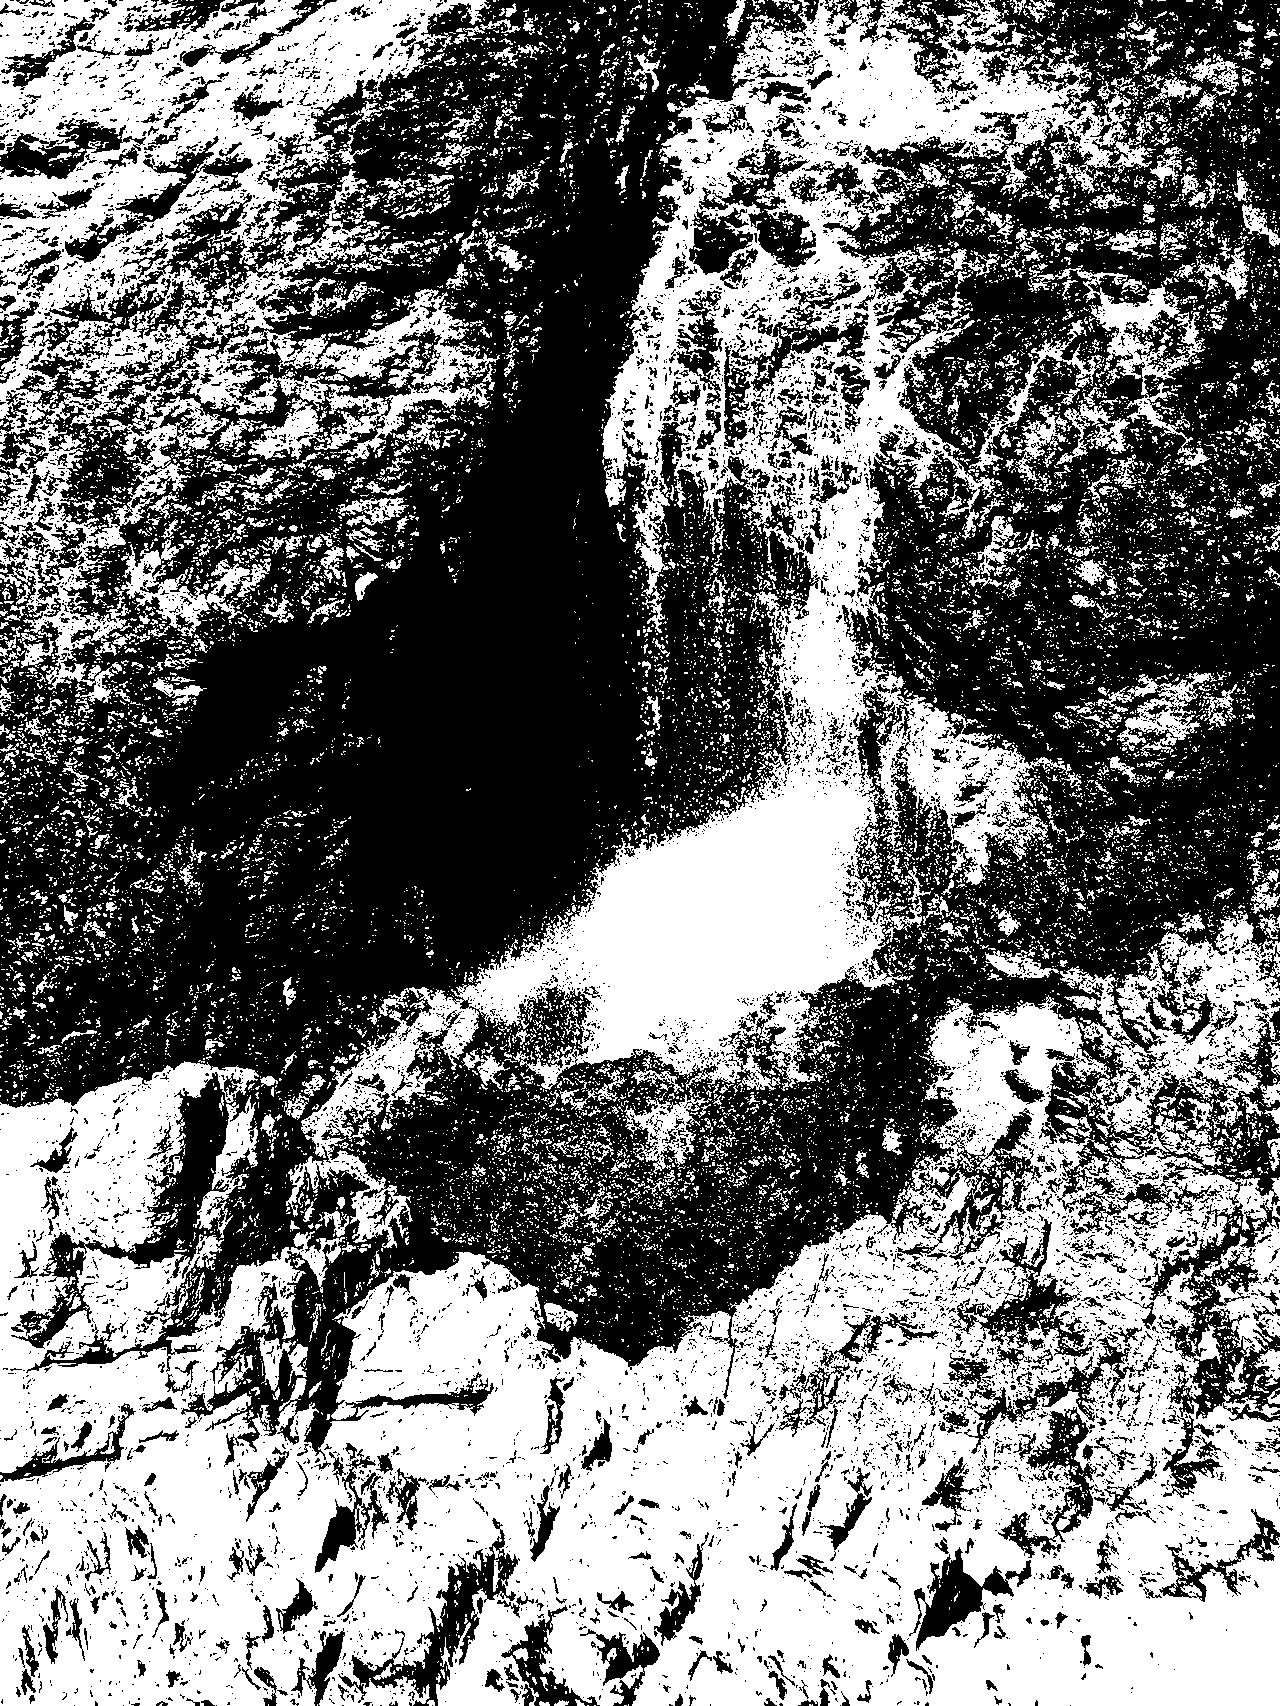
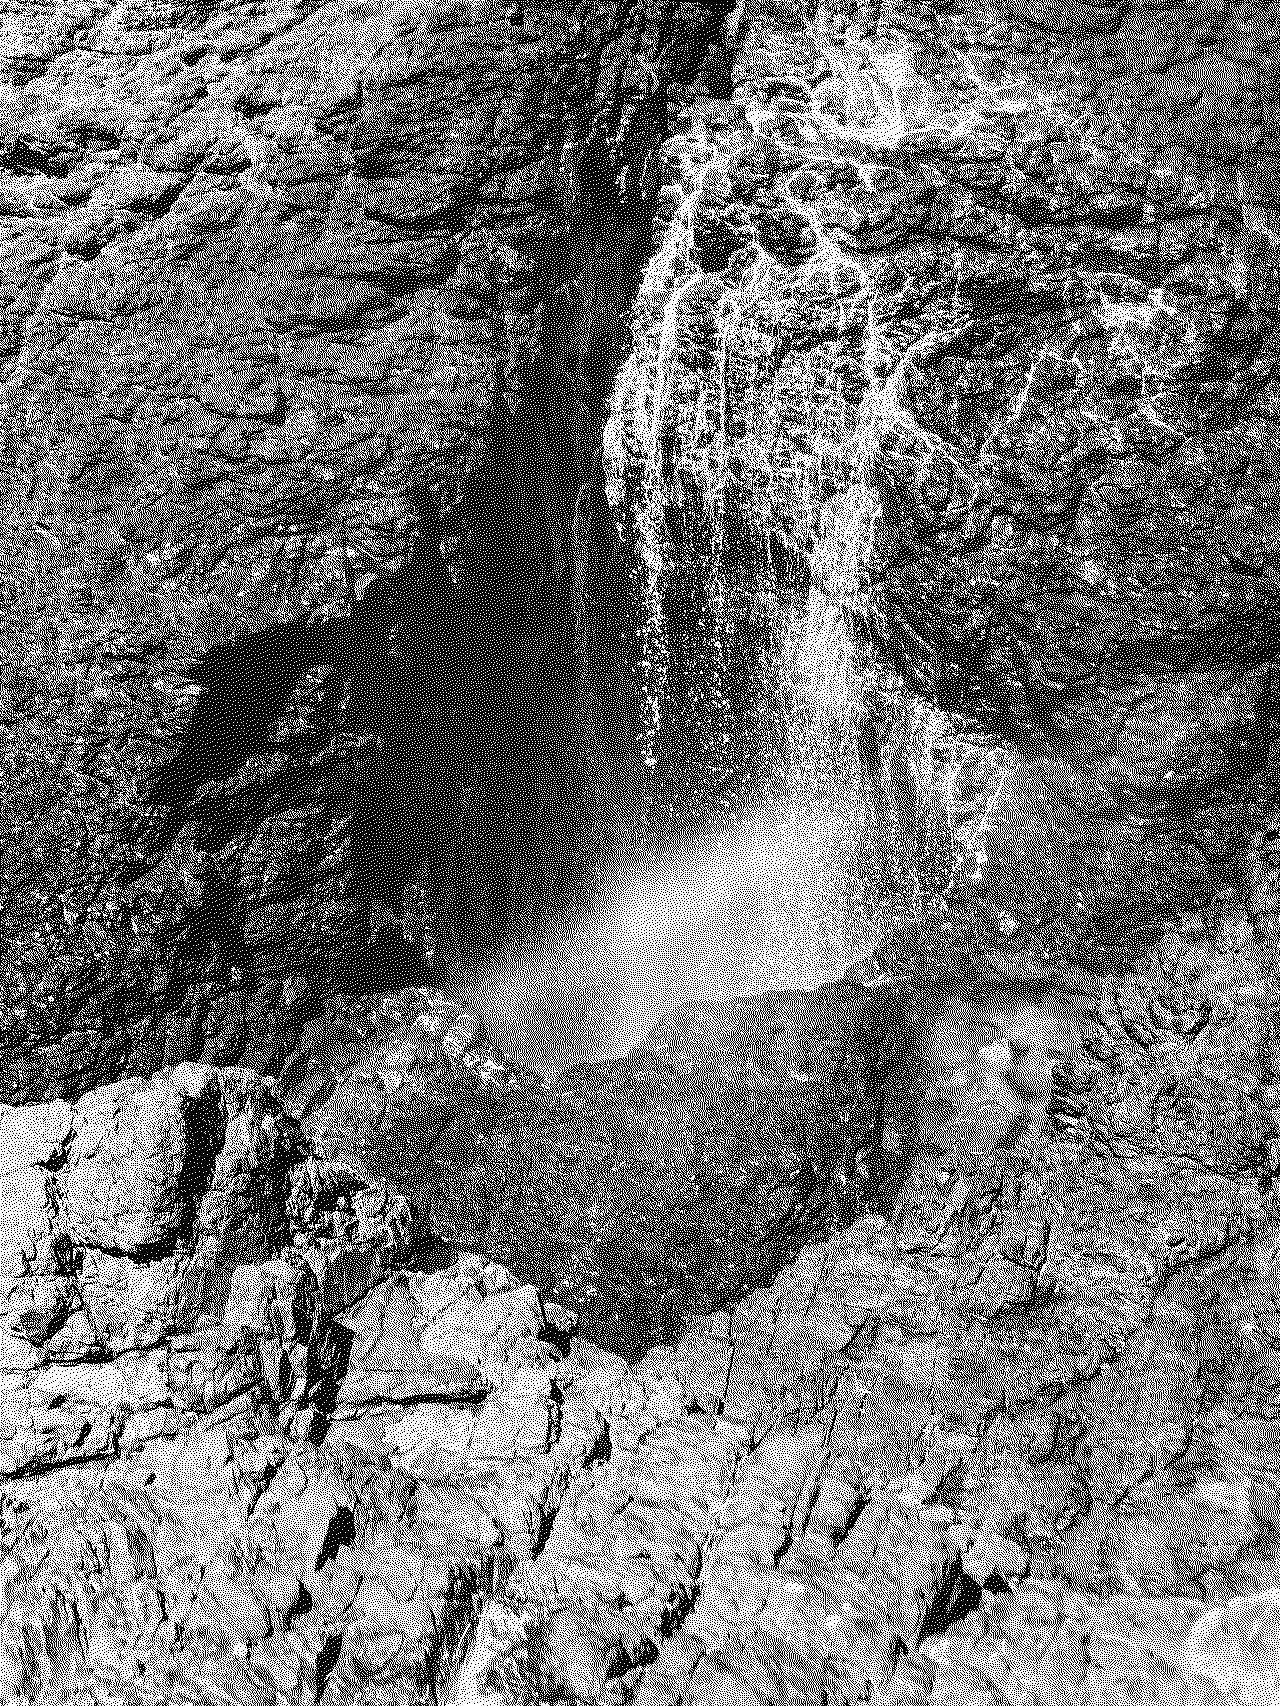
dithering

Changed region(s): [[0.0, 0.0, 1.0, 1.0]]

diff --git a/Assignment7/src/ImageModification.java b/Assignment7/src/ImageModification.java
@@ -76,7 +76,7 @@ public class ImageModification extends AbstractImageHandling {
 
               if (pixelUsedX >= 0 && pixelUsedY >= 0 && pixelUsedX < width
                       && pixelUsedY < height) {
-                int[] rgbProduct = getRGBForPixel(pixelUsedX, pixelUsedY);
+                int[] rgbProduct = getRGBForPixel(image, pixelUsedX, pixelUsedY);
                 filterSum[k] += rgbProduct[k] * filter[l + filterHalfLen][m + filterHalfLen];
               }
             }
@@ -91,7 +91,7 @@ public class ImageModification extends AbstractImageHandling {
   private BufferedImage applyColorMatrix(BufferedImage returnImage, double[][] matrix) {
     for (int i = 0; i < height; i++) {
       for (int j = 0; j < width; j++) {
-        int[] initialRGB = getRGBForPixel(j, i);
+        int[] initialRGB = getRGBForPixel(image, j, i);
         int[] appliedRGB = new int[RBG_LEN];
         for (int l = 0; l < matrix.length; l++) {
           for (int m = 0; m < matrix[l].length; m++) {
@@ -111,9 +111,9 @@ public class ImageModification extends AbstractImageHandling {
     returnImage.setRGB(j, i, (r << 16) | (g << 8) | b);
   }
 
-  private int[] getRGBForPixel(int x, int y) {
+  private int[] getRGBForPixel(BufferedImage img, int x, int y) {
     int[] channels = new int[3];
-    int rgb = image.getRGB(x, y);
+    int rgb = img.getRGB(x, y);
     channels[0] = (rgb >> 16) & 0x000000FF;
     channels[1] = (rgb >> 8) & 0x000000FF;
     channels[2] = (rgb) & 0x000000FF;
@@ -185,17 +185,9 @@ public class ImageModification extends AbstractImageHandling {
   private BufferedImage dither() {
     BufferedImage returnImage = greyscale();
 
-    double[][] colorTable = new double[height][width];
-
     for (int i = 0; i < height; i++) {
       for (int j = 0; j < width; j++) {
-        colorTable[i][j] = getRGBForPixel(j, i)[0];
-      }
-    }
-
-    for (int i = 0; i < height; i++) {
-      for (int j = 0; j < width; j++) {
-        int oldColor = (int) colorTable[i][j];
+        int oldColor = getRGBForPixel(returnImage, j, i)[0];
         int newColor = getCloserColor(oldColor);
 
         int[] color = new int[3];
@@ -207,22 +199,28 @@ public class ImageModification extends AbstractImageHandling {
         int error = oldColor - newColor;
 
         if (j + 1 < width) {
-          returnImage.setRGB(j + 1, i, (int) (colorTable[i][j + 1] + 7.0 / 16 * error));
+          modifyLaterPixels(returnImage, error, 7. / 16, j + 1, i);
         }
         if (i + 1 < height) {
           if (j - 1 >= 0) {
-            returnImage.setRGB(j - 1, i + 1, (int) (colorTable[i + 1][j - 1] + 3.0 / 16 * error));
+            modifyLaterPixels(returnImage, error, 3. / 16, j - 1, i + 1);
           }
 
-          returnImage.setRGB(j, i + 1, (int) (colorTable[i + 1][j] + 5.0 / 16 * error));
+          modifyLaterPixels(returnImage, error, 5. / 16, j, i + 1);
 
           if (j + 1 < width) {
-            returnImage.setRGB(j + 1, i + 1, (int) (colorTable[i + 1][j + 1] + 1.0 / 16 * error));
+            modifyLaterPixels(returnImage, error, 1. / 16, j + 1, i + 1);
           }
         }
       }
     }
     return returnImage;
+  }
+
+  private void modifyLaterPixels(BufferedImage returnImage, int error, double multiplier, int j, int i) {
+    int[] pixelRGB = getRGBForPixel(returnImage, j, i);
+    pixelRGB[0] += multiplier * error;
+    setRGB(returnImage, pixelRGB, j, i);
   }
 
   private int getCloserColor(int oldColor) {
